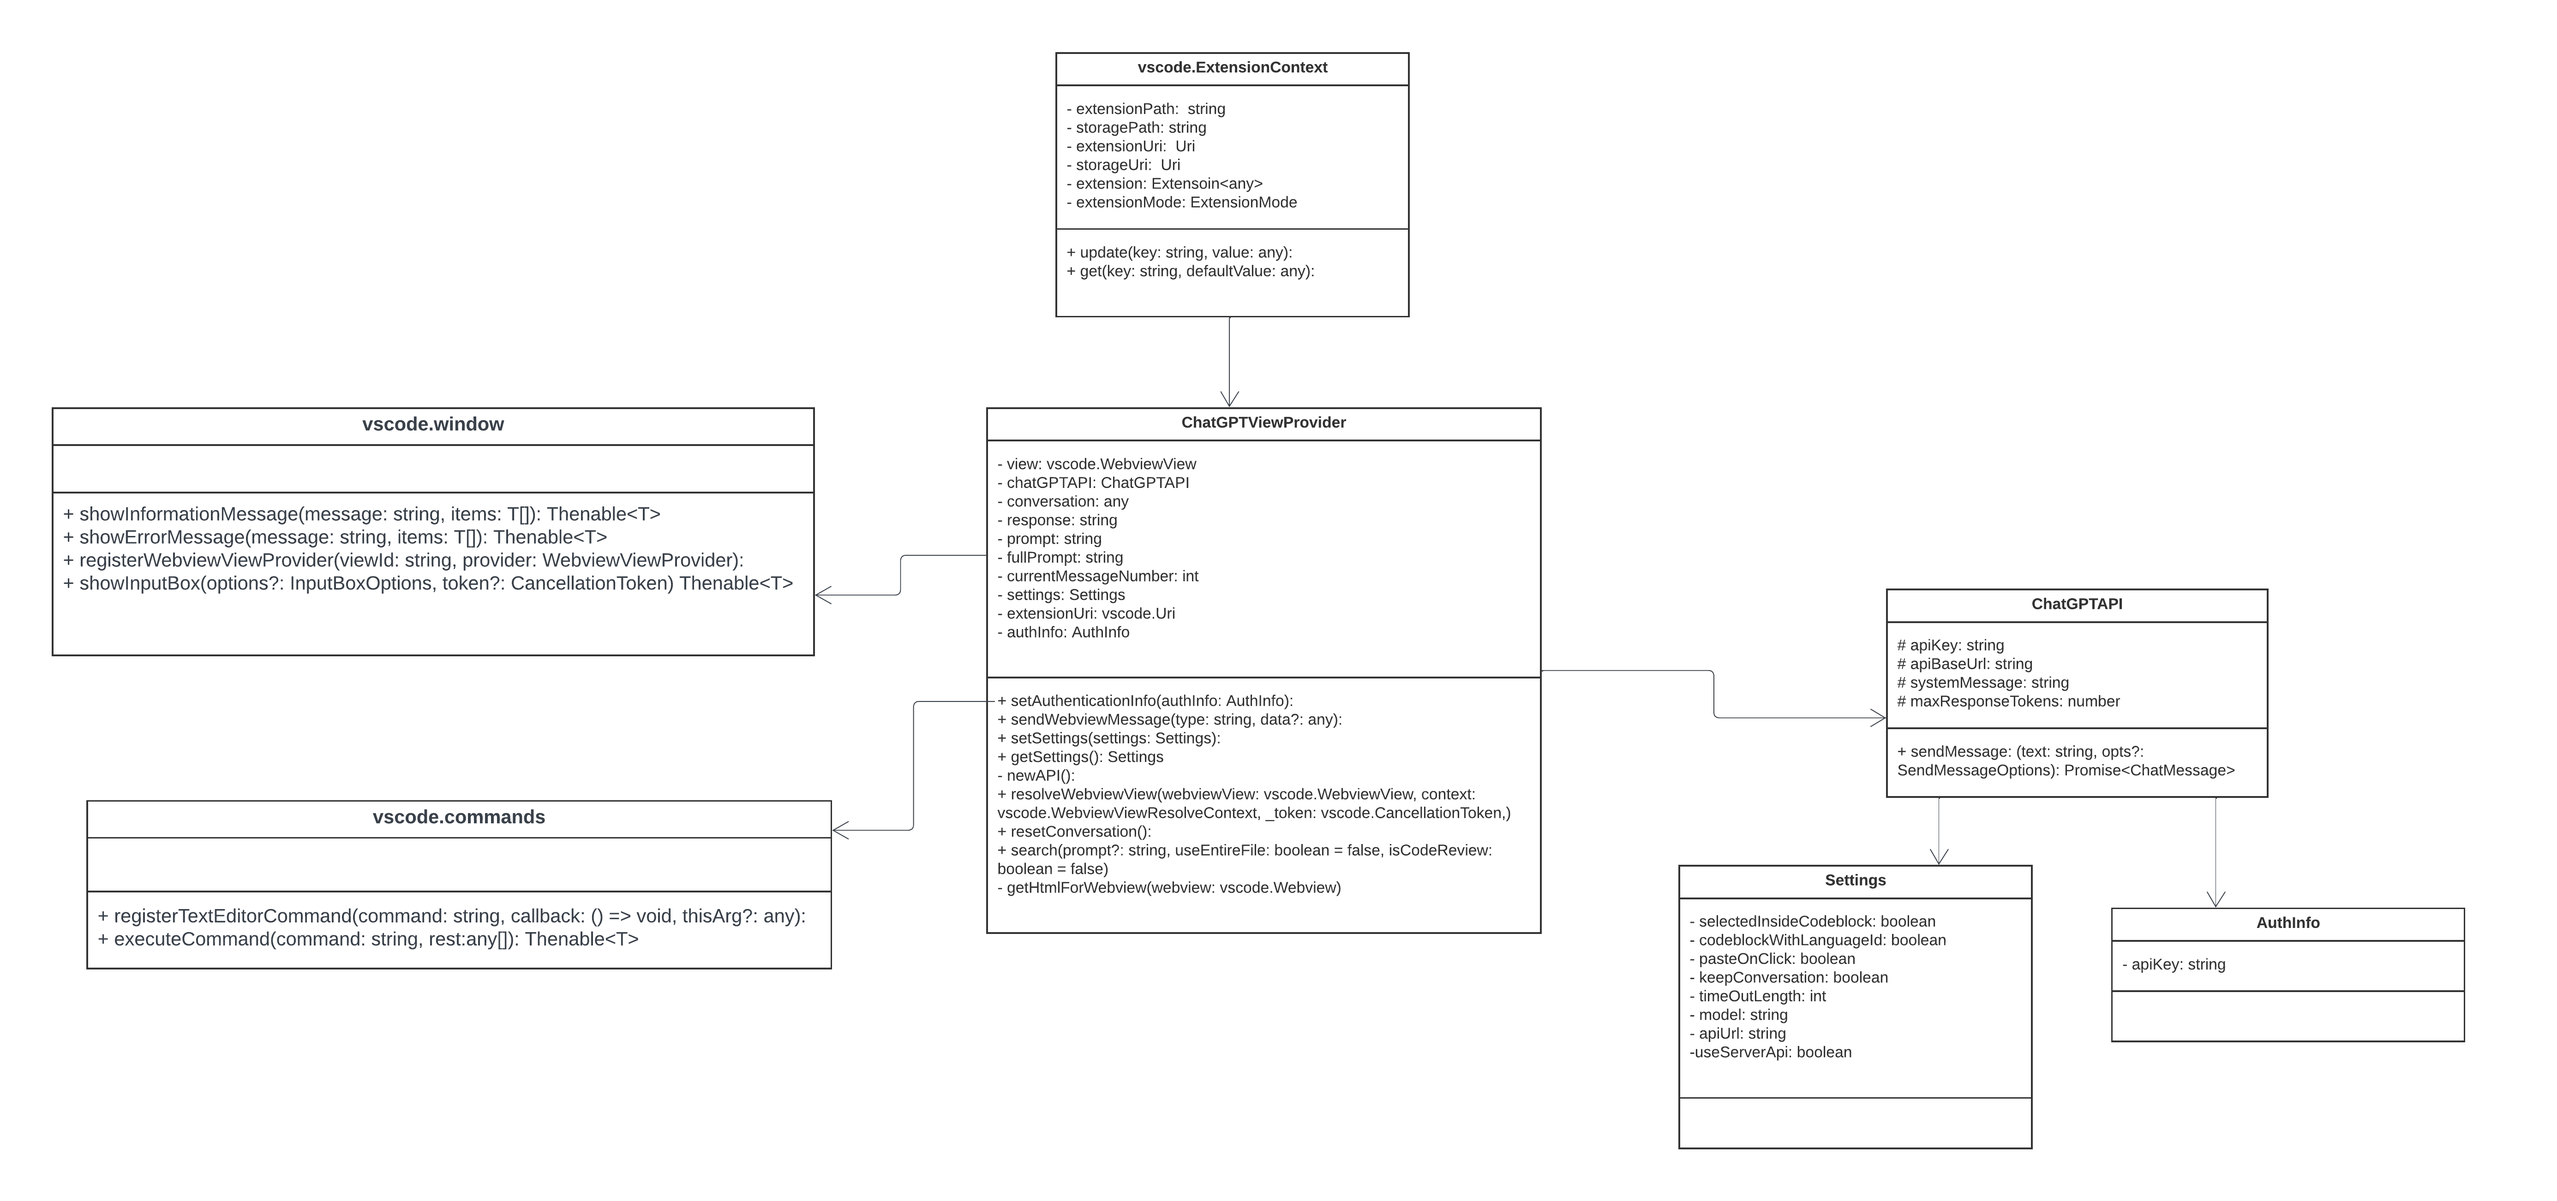
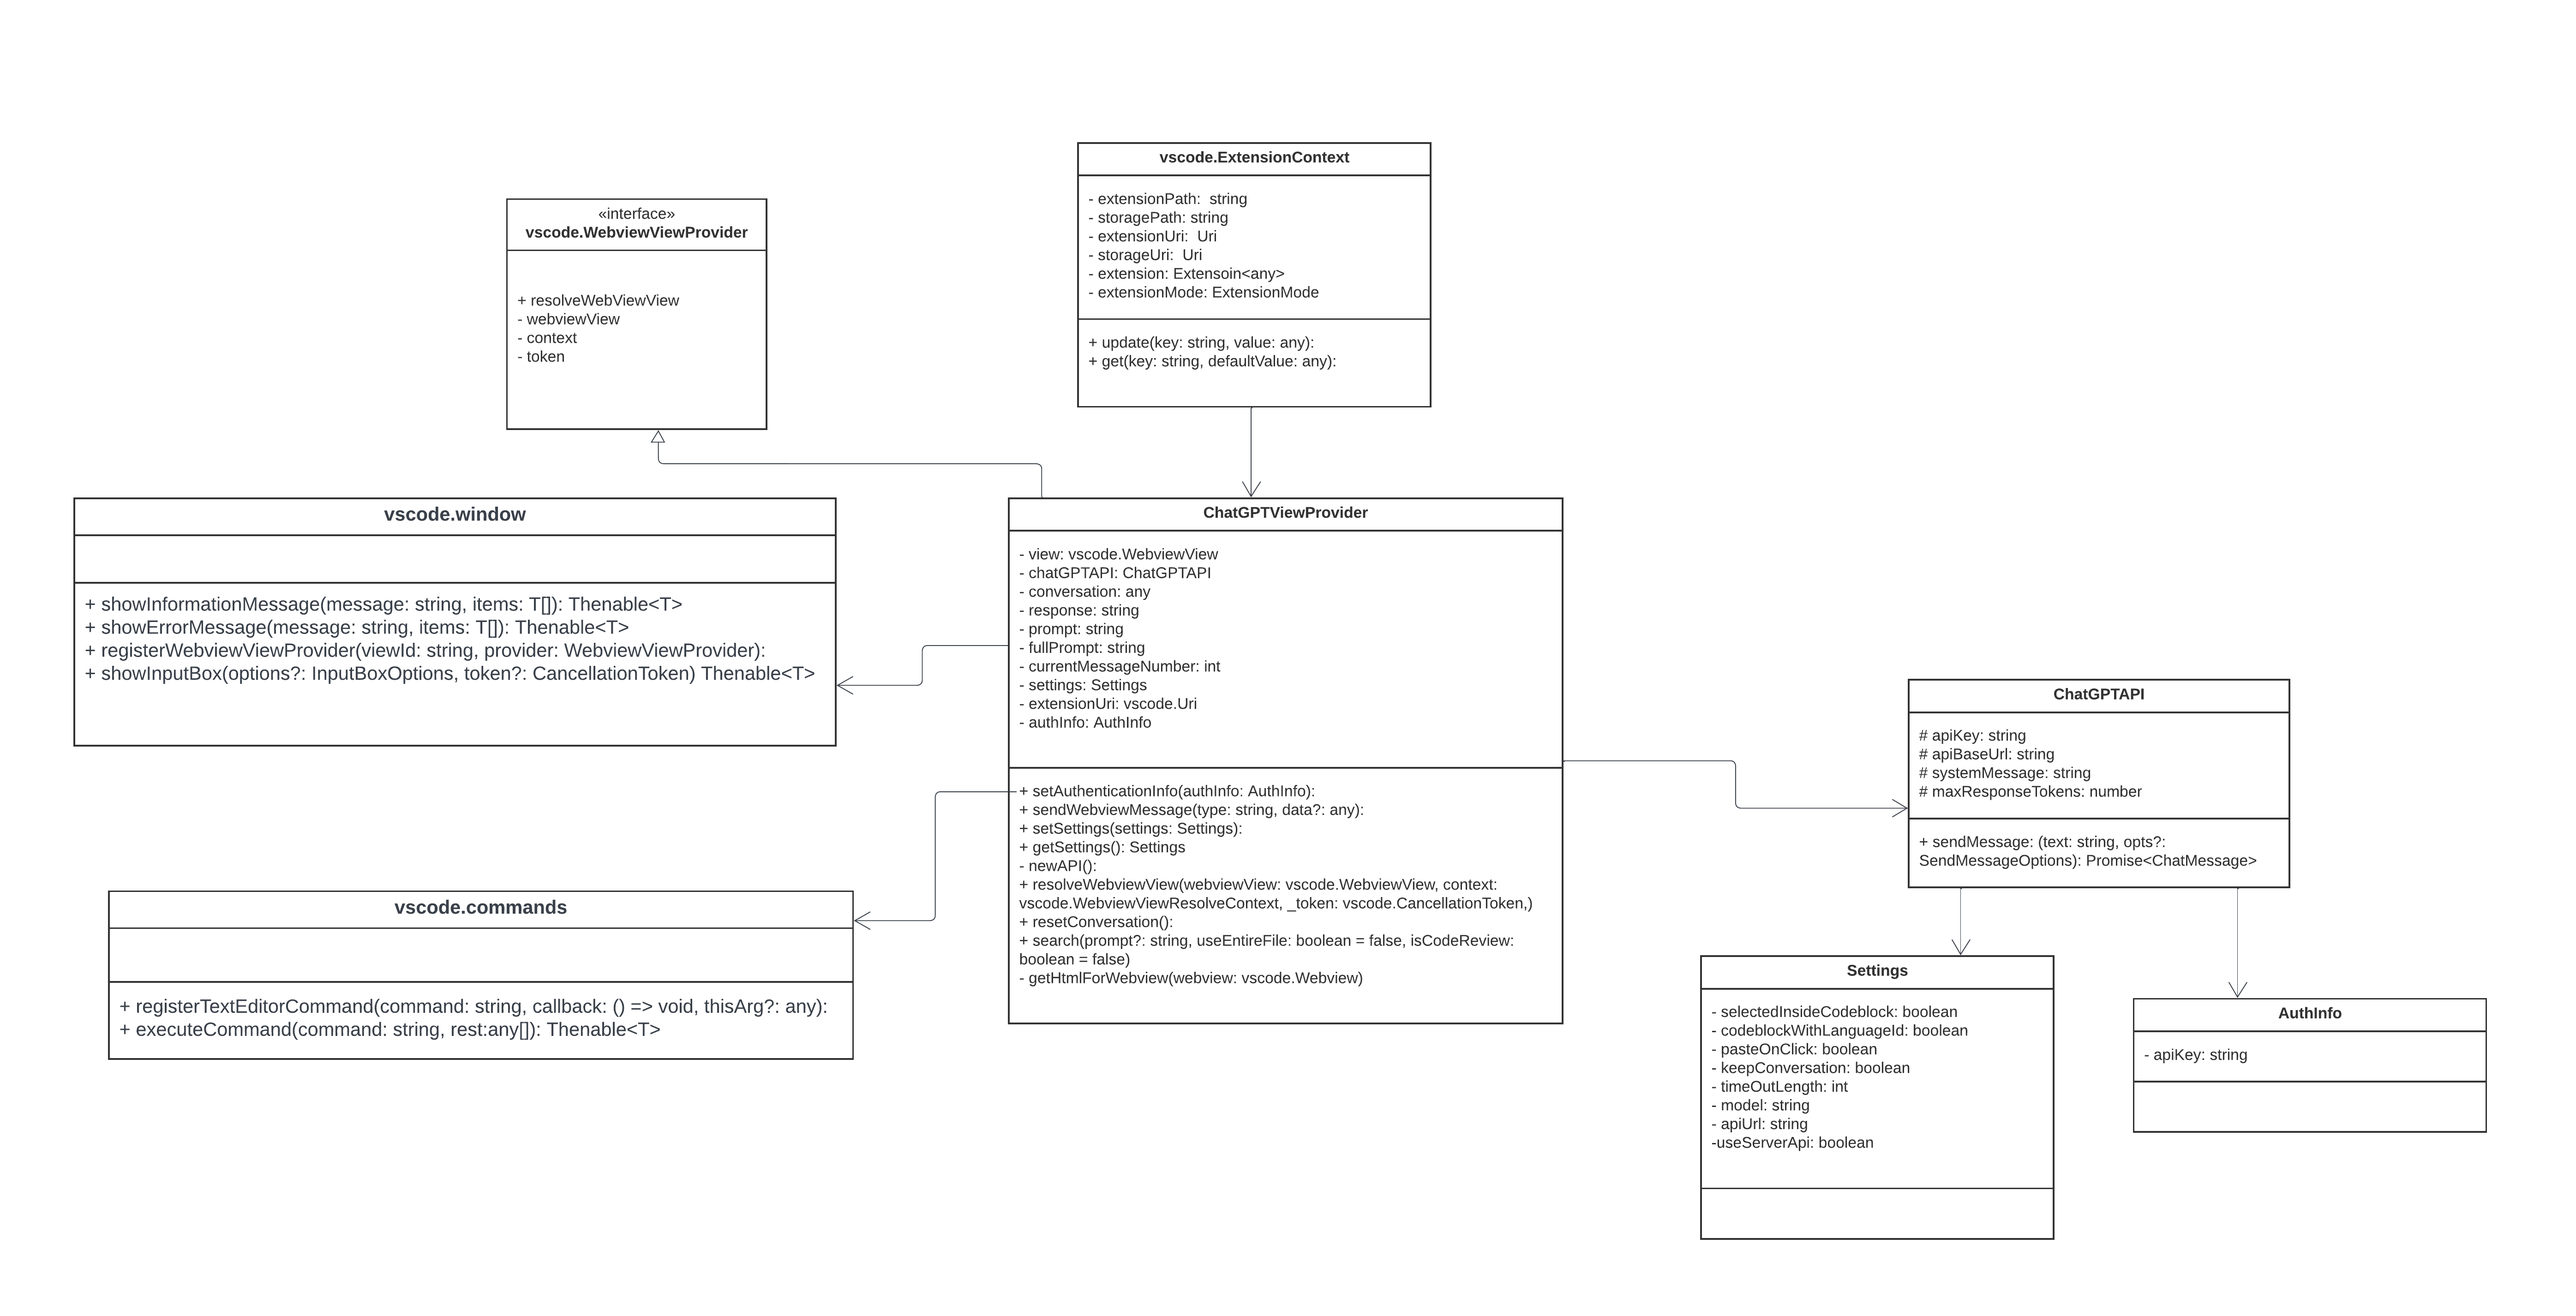
Modified new class diagram and began writing class explanations.

diff --git a/documentation/docs/system-architecture/ClassDiagram.md b/documentation/docs/system-architecture/ClassDiagram.md
@@ -1,17 +1,31 @@
 # Class Diagram
+
 ![image](https://raw.githubusercontent.com/Capstone-Projects-2023-Fall/project-code-review-chatbot/main/documentation/static/img/ClassDiagram.png)
 
-## ChatGPTExtension
-    Represents the main class for the ChatGPT extension. It interacts with the chat interface, backened server, and the ChatGPT API.
+## vscode.ExtensionContext
 
-## ChatInterface
-    Represents the user interface for chat interactions. It communicates with the extension to send and reciec messages.
+    This class is provided to us by the vscode extension framework.  It serves as the context for for our extension and allows us to interact with the VS Code environment, register commands, and manage any other part of our extension that must interact with the Vs Code IDE.  When the extension is started the vscode.ExtensionContext class is activated which allows us to initialize and set up the extension.
+
+## ChatGPTViewProvider
+
+    The ChatGPTViewProvider class is responsible for managing the webview inside of our extension which allows the users to read the code reviews from ChatGPT and interact with the chat bot.  This class is the core of the extension and is responsible for handling
+    many different aspects of the extension.
+
+    - **setAuthenticationInfo:** This function is responsible for setting the API key, initializing the chatGPT API.
+    - **sendWebviewMessage:** The sendWebViewMessage method provides the functionality to send mesages to the webview, so the code review bot can communciate with the extension.
+    - **setSettings:** The setSettings function allows the user to configure the extensions settings including an option to use the server's API, modify prompts, and other behavior.
+    - **resolveWebviewView:**  This function is responsible for setting up the webview view by defining it's HTML content and handling incoming messages from the code review bot (chatGPT).
+    - **resetConversation:** Provides the functionality to clear and rest the conversation with the code review bot.  The function will clear the user input and responses from the chatbot making the bot ready for a fresh conversation.
+    - **search:** The search function is responsible for managing the chatbot by feeding the chatbot the correct prompt selected by the user and combining it with the users selecetd code or entire file.
 
 ## Backend Server
+
     Represents the backened server responsivble for storing and managing convesations and communicates with the extensions to store and retrieve data.
 
 ## Backend Storage
+
     Holds the API key and recieves/sends the requests the the Backened Server.
 
 ## ChatGPT API
+
     Represents the external API used to interacts with the ChatGPT model, which handles sending requests to and receiving responses from the external API.
